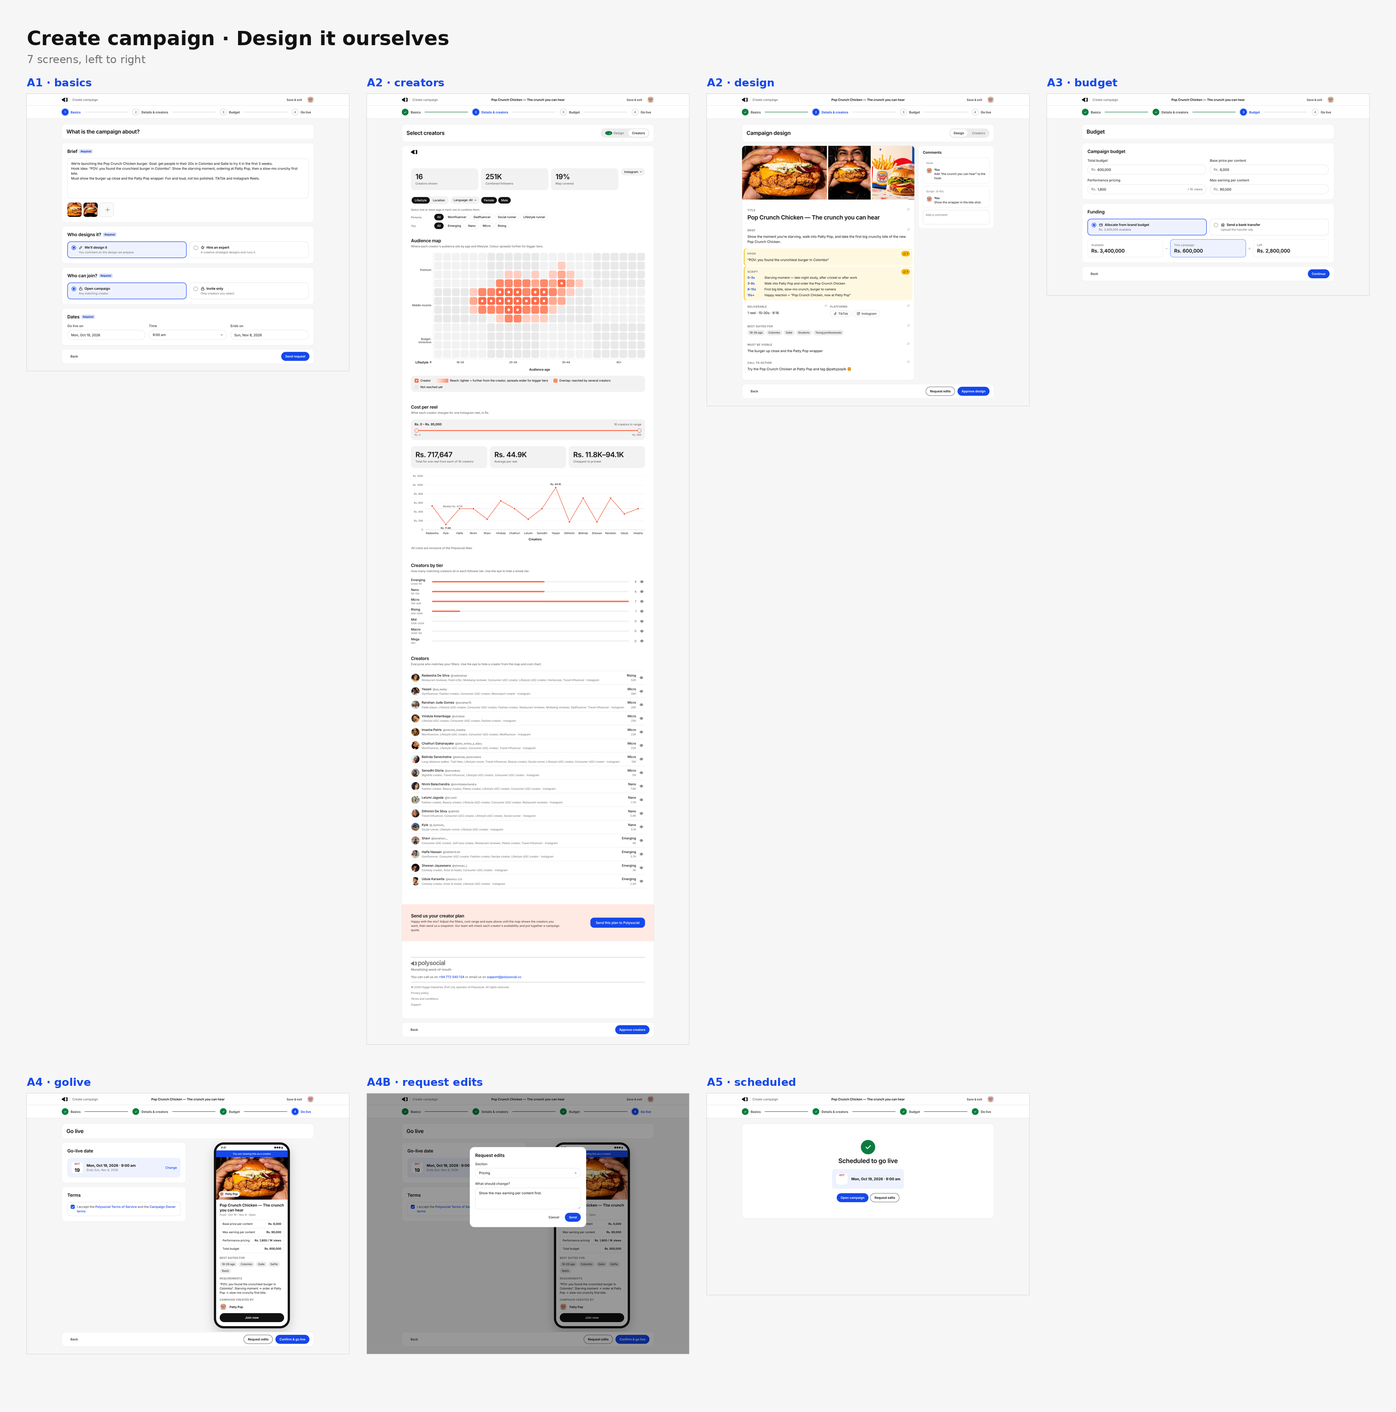
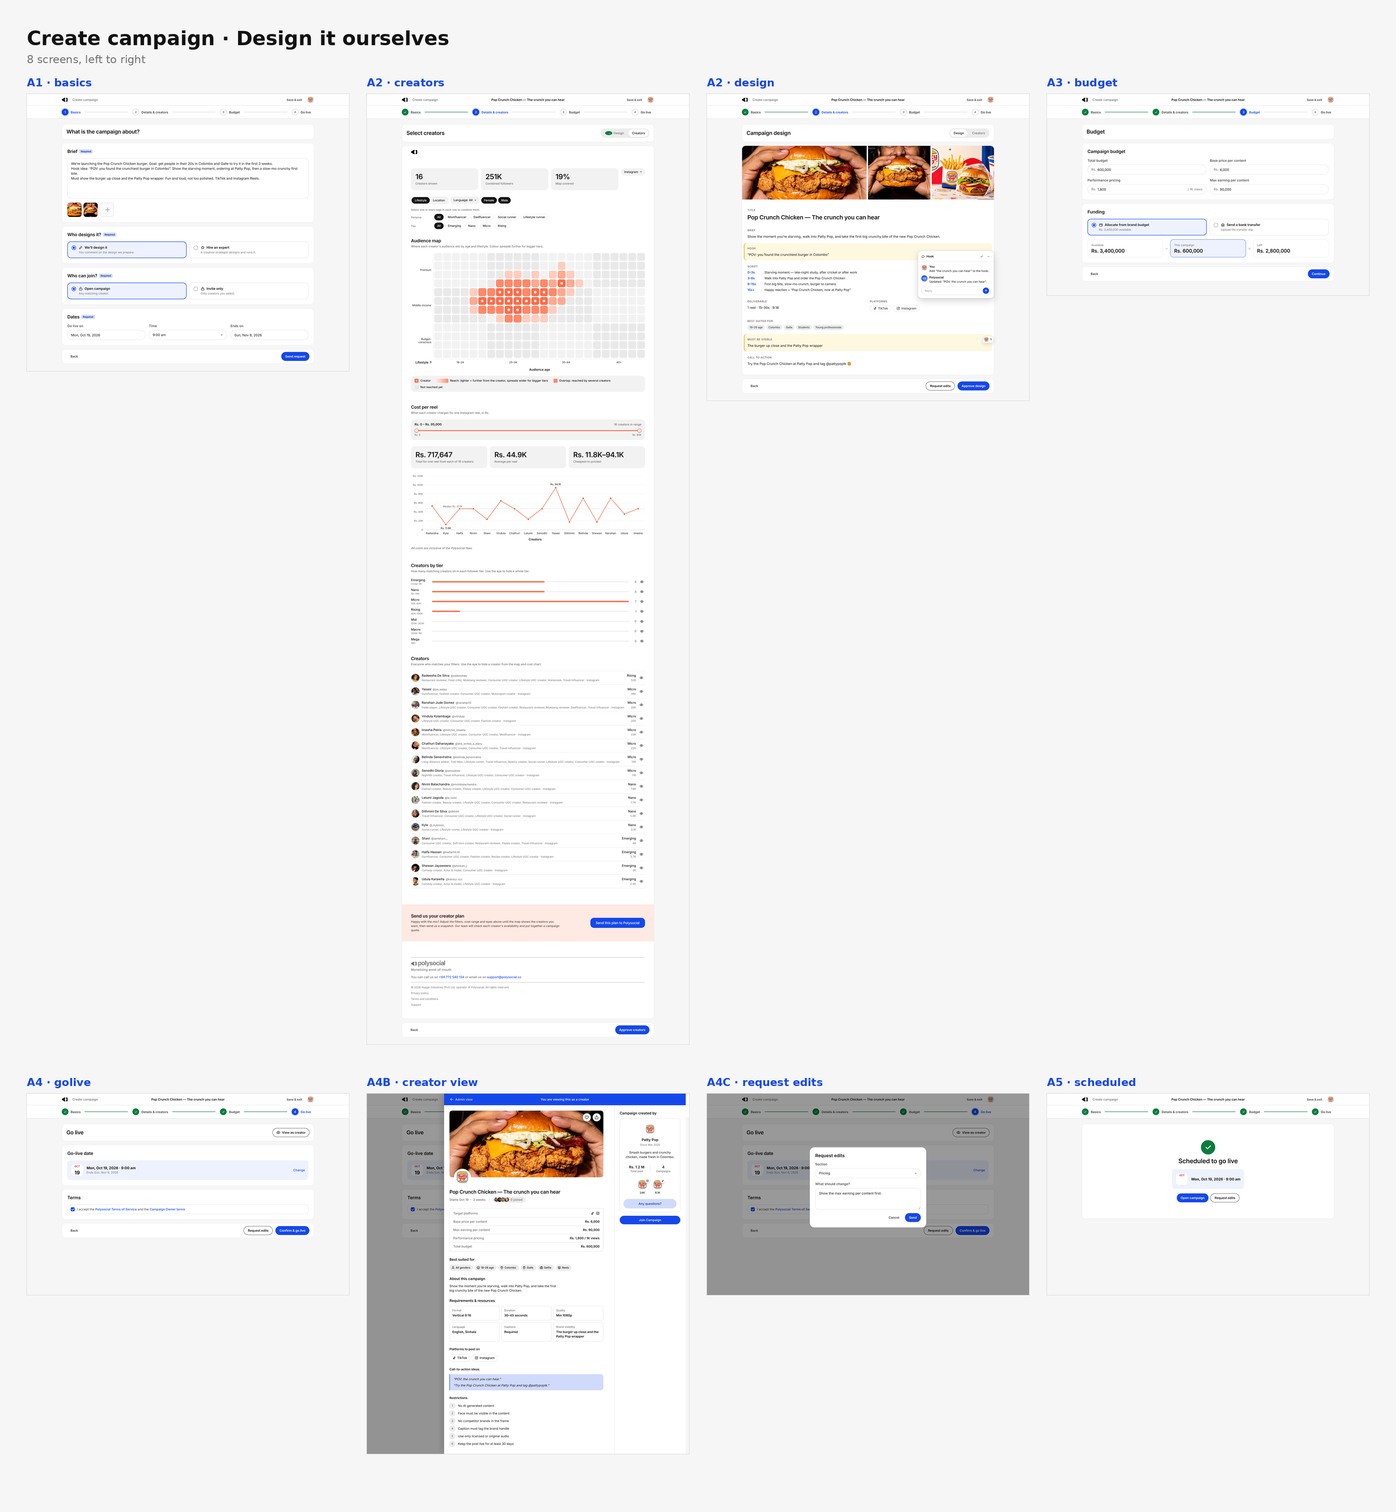
Comment pop-ups in step 2; brand web app creator view in step 4
Step 2: comments open as pop-ups over their section, with resolve and
minimize; minimized ones show as pins. Step 4: replace the phone mock-up
with View as creator, which opens the brand web app's own creator view
drawer filled with the campaign (one screen per type).

Claude-Session: https://claude.ai/code/session_01TWFpSRdd2thovgoyFXphbs

diff --git a/campaign-screens/screens.js b/campaign-screens/screens.js
@@ -124,47 +124,47 @@ SCREENS['c1-basics'] = () => step1('c', {design: 'We’ll design it', access: 'I
 /* ---------- Step 2 · Details: campaign design with comments ---------- */
 const avIni = (t, g) => `<span class="av2" style="background:linear-gradient(135deg,${g})">${t}</span>`;
 const ME = '<img src="img/pattypop.png">', PS = avIni('PS', '#1548eb,#7391f3'), IF = avIni('IF', '#1548eb,#f433ab');
-const sec = (h, body, c) => `<div class="dsec${c ? ' cm' : ''}"><h4>${h}</h4>${body}${c ? `<span class="cbadge">${I.chat}${c}</span>` : `<span class="addc">${I.chat}</span>`}</div>`;
-const thread = (on, msgs) => `<div class="cthread"><div class="on"><b>${on}</b></div>${msgs.map(([av, who, txt]) => `<div class="cmt">${av}<div><b>${who}</b><div>${txt}</div></div></div>`).join('')}</div>`;
+const pop = (key, th) => th.open
+  ? `<div class="cpop"><div class="ph">${I.chat.replace('<svg', '<svg width="15" height="15"')}${key}<span class="ib"><span title="Resolve">✓</span><span title="Minimize">–</span></span></div>
+      <div class="pb">${th.msgs.map(([av, who, txt]) => `<div class="cmt">${av}<div><b>${who}</b><div>${txt}</div></div></div>`).join('')}</div><div class="reply">Reply<b>↑</b></div></div>`
+  : `<span class="cpin">${th.msgs[th.msgs.length - 1][0]}${th.msgs.length}</span>`;
+const sec = (h, body, th) => `<div class="dsec${th ? ' cm' : ''}"><h4>${h}</h4>${body}${th ? pop(h, th) : ''}</div>`;
 const segs = (on, done) => `<div class="seg"><span class="${on === 0 ? 'on' : ''}">${done ? '<span class="dot">✓</span>' : ''}Design</span><span class="${on === 1 ? 'on' : ''}">Creators</span></div>`;
 
 function step2design(k, o) {
-  const t = T[k];
+  const t = T[k], th = o.threads;
   return page(k, 1,
     stephead('Campaign design', segs(0)) +
-    `<div class="cols"><section class="dcard doc"><div class="dcover">${t.cover.map(c => `<div style="background-image:url(img/${c})"></div>`).join('')}</div><div class="dbody">
-      ${sec('Title', `<div class="dtitle">${t.title}</div>`, o.c.title)}
-      ${sec('Brief', `<p>${o.req}</p>`, o.c.req)}
-      ${sec('Hook', `<p>${o.hook}</p>`, o.c.hook)}
-      ${sec('Script', `<div class="beatsv">${o.beats.map(([a, b]) => `<div><em>${a}</em><span>${b}</span></div>`).join('')}</div>`, o.c.script)}
+    `<section class="dcard doc" style="overflow:visible"><div class="dcover" style="border-radius:16px 16px 0 0;overflow:hidden">${t.cover.map(c => `<div style="background-image:url(img/${c})"></div>`).join('')}</div><div class="dbody">
+      ${sec('Title', `<div class="dtitle">${t.title}</div>`, th.Title)}
+      ${sec('Brief', `<p>${o.req}</p>`, th.Brief)}
+      ${sec('Hook', `<p>${o.hook}</p>`, th.Hook)}
+      ${sec('Script', `<div class="beatsv">${o.beats.map(([a, b]) => `<div><em>${a}</em><span>${b}</span></div>`).join('')}</div>`, th.Script)}
       <div class="grid2">${sec('Deliverable', `<p>${o.deliv}</p>`)}${sec('Platforms', `<div class="chips">${o.plats.map(p => `<span class="chip" style="height:30px">${PLAT[p]}${p}</span>`).join('')}</div>`)}</div>
-      ${sec('Best suited for', tagsHTML(o.suited), o.c.suited)}
-      ${sec('Must be visible', `<p>${o.visible}</p>`)}
-      ${sec('Call to action', `<p>${o.cta}</p>`)}
-    </div></section>
-    <div class="stick"><section class="dcard tight"><h3 style="margin-bottom:12px">Comments</h3><div style="display:grid;gap:10px">${o.threads.map(([on, msgs]) => thread(on, msgs)).join('')}
-      <div class="cbox"><textarea placeholder="Add a comment"></textarea></div></div></section>${o.side || ''}</div></div>`,
-    bar([`Request edits`, 'Approve design']));
+      ${sec('Best suited for', tagsHTML(o.suited), th['Best suited for'])}
+      ${sec('Must be visible', `<p>${o.visible}</p>`, th['Must be visible'])}
+      ${sec('Call to action', `<p>${o.cta}</p>`, th['Call to action'])}
+    </div></section>`,
+    bar(['Request edits', 'Approve design']));
 }
 SCREENS['a2-design'] = () => step2design('a', {
   req: 'Show the moment you’re starving, walk into Patty Pop, and take the first big crunchy bite of the new Pop Crunch Chicken.', hook: '“POV: you found the crunchiest burger in Colombo”',
   beats: [['0–3s', 'Starving moment — late-night study, after cricket or after work'], ['3–8s', 'Walk into Patty Pop and order the Pop Crunch Chicken'], ['8–15s', 'First big bite, slow-mo crunch, burger to camera'], ['15s+', 'Happy reaction + “Pop Crunch Chicken, now at Patty Pop”']],
   deliv: '1 reel · 15–30s · 9:16', plats: ['TikTok', 'Instagram'], suited: ['18–28 age', 'Colombo', 'Galle', 'Students', 'Young professionals'],
-  visible: 'The burger up close and the Patty Pop wrapper', cta: 'Try the Pop Crunch Chicken at Patty Pop and tag @pattypoplk 🍔', c: {hook: 1, script: 1},
-  threads: [['Hook', [[ME, 'You', 'Add “the crunch you can hear” to the hook.']]], ['Script · 8–15s', [[ME, 'You', 'Show the wrapper in the bite shot.']]]]});
+  visible: 'The burger up close and the Patty Pop wrapper', cta: 'Try the Pop Crunch Chicken at Patty Pop and tag @pattypoplk 🍔',
+  threads: {Hook: {open: 1, msgs: [[ME, 'You', 'Add “the crunch you can hear” to the hook.'], [PS, 'Polysocial', 'Updated: “POV: the crunch you can hear”.']]}, 'Must be visible': {msgs: [[ME, 'You', 'Show the wrapper in the bite shot.']]}}});
 SCREENS['b2-design'] = () => step2design('b', {
   req: 'Capture the opening of the new Patty Pop in Kandy: the queue, the first bite and the free fries on opening weekend.', hook: '“I drove up to Kandy for one bite…”',
   beats: [['0–3s', 'The drive up to Peradeniya Rd'], ['3–10s', 'The queue and the store front on opening day'], ['10–20s', 'First bite + free fries with code KANDYPOP'], ['20s+', '“Patty Pop, now in Kandy”']],
   deliv: '1 reel · 20–40s · 9:16', plats: ['Instagram', 'TikTok'], suited: ['Families', 'Students', 'Kandy', 'Peradeniya'],
-  visible: 'The store front and the free-fries offer', cta: 'Free fries this weekend at Patty Pop Kandy with code KANDYPOP 🍟', c: {suited: 1},
-  threads: [['Best suited for', [[ME, 'You', 'Please add Katugastota.'], [IF, 'Ishara', 'Adding it.']]]],
-  side: `<section class="dcard tight"><div class="prow">${ini('IF', '#1548eb,#f433ab')}<div><b>Ishara Fernando</b><span>Expert · 12% commission</span></div></div></section>`});
+  visible: 'The store front and the free-fries offer', cta: 'Free fries this weekend at Patty Pop Kandy with code KANDYPOP 🍟',
+  threads: {'Best suited for': {open: 1, msgs: [[ME, 'You', 'Please add Katugastota.'], [IF, 'Ishara', 'Adding it.']]}, Hook: {msgs: [[IF, 'Ishara', 'Open to other hooks too.']]}}});
 SCREENS['c2-design'] = () => step2design('c', {
   req: 'Your family’s Saturday night sorted: open the Family Feast box at home, everyone grabs their favourite, kids react to their meal.', hook: '“Weekend dinner, sorted in one box”',
   beats: [['0–3s', 'The “what’s for dinner?” moment at home'], ['3–10s', 'Open the Family Feast box on the table'], ['10–20s', 'Everyone digs in, kids’ reactions'], ['20s+', 'Rs. 4,990 for the whole family']],
   deliv: '1 Instagram reel · 20–40s · 9:16', plats: ['Instagram'], suited: ['Families', 'Parents 25–44', 'Colombo city'],
-  visible: 'The open Family Feast box and the Rs. 4,990 price', cta: 'Order the Family Feast box on the Patty Pop app and tag @pattypoplk', c: {title: 1},
-  threads: [['Title', [[ME, 'You', 'Mention the price in the title.']]]]});
+  visible: 'The open Family Feast box and the Rs. 4,990 price', cta: 'Order the Family Feast box on the Patty Pop app and tag @pattypoplk',
+  threads: {Title: {open: 1, msgs: [[ME, 'You', 'Mention the price in the title.']]}, 'Call to action': {msgs: [[ME, 'You', 'Add the delivery apps too.']]}}});
 
 /* ---------- Step 2 · Creators: the Polysocial creator map, exactly as deployed ---------- */
 function step2creators(k, btn) {
@@ -198,36 +198,47 @@ SCREENS['c3-budget'] = () => step3('c', {fund: 'transfer',
   budgetBody: `<table class="tb"><tbody>${['ranshan15', 'radeeshaa', 'mitchie_imasha', 'she_writes_a_diary'].map(by).map(c => `<tr><td><div class="prow">${cav(c, 32)}<b style="font-size:14px">${c.name}</b></div></td><td class="r">${rs(c.cost)}</td></tr>`).join('')}</tbody><tfoot><tr><td>Total</td><td class="r">${rs(217647)}</td></tr></tfoot></table>`});
 
 /* ---------- Step 4 · Go live ---------- */
-const CV = {
-  a: {meta: 'Food · Oct 19 – Nov 8 · Open', price: [['Base price per content', 'Rs. 6,000'], ['Max earning per content', 'Rs. 90,000'], ['Performance pricing', 'Rs. 1,800 / 1K views'], ['Total budget', 'Rs. 600,000']], tags: ['18–28 age', 'Colombo', 'Galle', 'Selfie', 'Reels'], req: '“POV: you found the crunchiest burger in Colombo”. Starving moment → order at Patty Pop → slow-mo crunchy first bite.'},
-  b: {meta: 'Food · Nov 20 – Dec 14 · Open', price: [['Base price per content', 'Rs. 9,000'], ['Max earning per content', 'Rs. 120,000'], ['Performance pricing', 'Rs. 1,500 / 1K views'], ['Total budget', 'Rs. 704,000']], tags: ['Families', 'Students', 'Kandy', 'Peradeniya', 'Reels'], req: '“I drove up to Kandy for one bite…”. Queue on opening day, first bite and free fries with code KANDYPOP.'},
-  c: {meta: 'Food · Nov 16 – Dec 6 · Invite only', price: [['Flat fee per content', 'Agreed per creator'], ['Slots', '4'], ['Slots filled', '0'], ['Total budget', 'Rs. 217,647']], tags: ['Families', 'Parents 25–44', 'Colombo city', 'Reels'], req: '“Weekend dinner, sorted in one box”. Open the Family Feast box at home; show the Rs. 4,990 price.'},
+/* The creator view is the brand web app's own "View as creator" drawer (../index.html, viewCampaignDrawer).
+   render.js opens it in the iframe with this campaign's data, in the brand web app's campaign format. */
+const BRAND = {brand: 'Patty Pop', logo: 'ppLogo', abbr: 'PP', cat: 'Food', since: 'Since Mar 2026', brandDesc: 'Smash burgers and crunchy chicken, made fresh in Colombo.',
+  totalPaid: 'Rs. 1.2 M', campaigns: '4', metrics: [['Content approval rate', '95 %'], ['Approval time', '1 d'], ['Responds within', '2 hrs']], handles: [['24K', 'insta'], ['8.1K', 'tiktok']], progress: 0, joined: null, joinedShort: '0'};
+const CVD = {
+  a: {img: 'ppA', title: T.a.title, time: 'Starts Oct 19', right: '3 weeks', platforms: ['tiktok', 'insta'],
+      list: [['Base price per content', 'Rs. 6,000'], ['Max earning per content', 'Rs. 90,000'], ['Performance pricing', 'Rs. 1,800 / 1K views'], ['Total budget', 'Rs. 600,000']],
+      tags: [['All genders', 'people'], ['18-28 age', 'age'], ['Colombo', 'pin'], ['Galle', 'pin'], ['Selfie', 'camera'], ['Reels', 'video']],
+      reqDesc: 'Show the moment you’re starving, walk into Patty Pop, and take the first big crunchy bite of the new Pop Crunch Chicken.', visibility: 'The burger up close and the Patty Pop wrapper',
+      ctas: ['POV: the crunch you can hear.', 'Try the Pop Crunch Chicken at Patty Pop and tag @pattypoplk.']},
+  b: {img: 'ppB', title: T.b.title, time: 'Starts Nov 20', right: 'Store opens Dec 5', platforms: ['insta', 'tiktok'],
+      list: [['Base price per content', 'Rs. 9,000'], ['Max earning per content', 'Rs. 120,000'], ['Performance pricing', 'Rs. 1,500 / 1K views'], ['Total budget', 'Rs. 704,000']],
+      tags: [['Families', 'people'], ['Students', 'people'], ['Kandy', 'pin'], ['Peradeniya', 'pin'], ['Katugastota', 'pin'], ['Reels', 'video']],
+      reqDesc: 'Capture the opening of the new Patty Pop in Kandy: the queue, the first bite and the free fries on opening weekend.', visibility: 'The store front and the free-fries offer',
+      ctas: ['I drove up to Kandy for one bite…', 'Free fries this weekend with code KANDYPOP.']},
+  c: {img: 'ppC', title: T.c.title, time: 'Starts Nov 16', right: '3 weeks', platforms: ['insta'],
+      list: [['Flat fee per content', 'Agreed per creator'], ['Slots', '4'], ['Slots filled', '0'], ['Total budget', 'Rs. 217,647']],
+      tags: [['Families', 'people'], ['25-44 age', 'age'], ['Colombo', 'pin'], ['Reels', 'video']],
+      reqDesc: 'Your family’s Saturday night sorted: open the Family Feast box at home, everyone grabs their favourite, kids react to their meal.', visibility: 'The open Family Feast box and the Rs. 4,990 price',
+      ctas: ['Weekend dinner, sorted in one box.', 'Order the Family Feast box on the Patty Pop app and tag @pattypoplk.']},
 };
-function creatorView(k) {
-  const t = T[k], o = CV[k];
-  return `<div class="phone"><div class="notch"><span>9:41</span><span>●●● ▮</span></div><div class="cvbar">You are viewing this as a creator</div>
-    <div class="cv-hero" style="background-image:url(img/${t.cover[0]})"><span class="bb"><img src="img/pattypop.png">Patty Pop</span></div>
-    <div class="cv"><div><h3>${t.title}</h3><div class="mt">${o.meta}</div></div>
-      <div class="pl">${o.price.map(([a, b]) => `<div><span>${a}</span><b>${b}</b></div>`).join('')}</div>
-      <div><h5>Best suited for</h5>${tagsHTML(o.tags)}</div>
-      <div><h5>Requirements</h5><p>${o.req}</p></div>
-      <div><h5>Campaign created by</h5><div class="prow"><img class="pav" src="img/pattypop.png" style="width:32px;height:32px"><b style="font-size:13px">Patty Pop</b></div></div>
-      <span class="join">Join now</span></div></div>`;
-}
-function step4(k, extraTerm) {
+const CV_ASSETS = {ppLogo: 'campaign-screens/img/pattypop.png', ppA: 'campaign-screens/img/' + T.a.cover[0], ppB: 'campaign-screens/img/' + T.b.cover[0], ppC: 'campaign-screens/img/' + T.c.cover[0]};
+const viewAs = `<span class="viewas">${I.eye}View as creator</span>`;
+
+function step4(k, extraTerm, creatorView) {
   const t = T[k], [mo, d, full] = t.live;
+  if (creatorView) window.CV_INJECT = {id: 'pp_' + k, data: Object.assign({}, BRAND, CVD[k]), assets: CV_ASSETS};
   return page(k, 3,
-    stephead('Go live') +
-    `<div class="cols even"><div class="main">` +
+    stephead('Go live', viewAs) +
     box('Go-live date', `<div class="dateline"><div class="big"><small>${mo}</small><b>${d}</b></div><div class="tx"><b>${full}</b><span>Ends ${t.end}</span></div><span class="link" style="margin-left:auto">Change</span></div>`) +
-    box('Terms', `<div class="terms">${checks([['I accept the <a>Polysocial Terms of Service</a> and the <a>Campaign Owner terms</a>', 1], ...(extraTerm ? [[extraTerm, 1]] : [])])}</div>`) +
-    `</div><div class="stick" style="justify-items:center">${creatorView(k)}</div></div>`,
-    bar(['Request edits', `Confirm &amp; go live`]));
+    box('Terms', `<div class="terms">${checks([['I accept the <a>Polysocial Terms of Service</a> and the <a>Campaign Owner terms</a>', 1], ...(extraTerm ? [[extraTerm, 1]] : [])])}</div>`),
+    bar(['Request edits', `Confirm &amp; go live`])) +
+    (creatorView ? `<iframe class="cvframe" src="../index.html#/active" title="Creator view"></iframe>` : '');
 }
 SCREENS['a4-golive'] = () => step4('a');
+SCREENS['a4b-creator-view'] = () => step4('a', null, true);
 SCREENS['b4-golive'] = () => step4('b', 'I hire Ishara Fernando at 12% (Rs. 96,000)');
+SCREENS['b4b-creator-view'] = () => step4('b', 'I hire Ishara Fernando at 12% (Rs. 96,000)', true);
 SCREENS['c4-golive'] = () => step4('c');
-SCREENS['a4b-request-edits'] = () => SCREENS['a4-golive']() + `<div class="scrim"><div class="modal"><h2>Request edits</h2>
+SCREENS['c4b-creator-view'] = () => step4('c', null, true);
+SCREENS['a4c-request-edits'] = () => SCREENS['a4-golive']() + `<div class="scrim"><div class="modal"><h2>Request edits</h2>
   ${field('Section', sel('Pricing'))}${field('What should change?', area('Show the max earning per content first.', 3))}
   <div class="mrow"><span class="btn btn-ghost">Cancel</span><span class="btn btn-pri">Send</span></div></div></div>`;
 

diff --git a/campaign-screens/create.css b/campaign-screens/create.css
@@ -493,3 +493,22 @@ html:has(body.shot){scrollbar-gutter:auto;}
 .stick .kv{grid-template-columns:auto minmax(0,1fr);}
 .stick .kv dd{text-align:right;}
 .cols > *{min-width:0;}
+
+/* ---------- Step 2: comment pop-ups over the design (open, or minimized to a pin) ---------- */
+.doc .dbody{position:relative;}
+.dsec{overflow:visible;}
+.cpop{position:absolute;z-index:5;right:-8px;top:34px;width:340px;background:#fff;border:1px solid var(--grey-200);border-radius:16px;box-shadow:0 12px 32px rgba(0,0,0,.16),0 2px 6px rgba(0,0,0,.06);display:grid;}
+.cpop .ph{display:flex;align-items:center;gap:8px;padding:10px 10px 10px 14px;border-bottom:1px solid var(--line);font-size:13px;font-weight:600;}
+.cpop .ph .ib{margin-left:auto;display:flex;gap:2px;}
+.cpop .ph .ib span{width:28px;height:28px;border-radius:8px;display:grid;place-items:center;color:var(--grey-600);font-size:16px;line-height:1;}
+.cpop .ph .ib span:hover{background:#f0f0f0;}
+.cpop .pb{padding:12px 14px;display:grid;gap:10px;}
+.cpop .reply{margin:0 14px 14px;height:38px;border:1px solid var(--grey-200);border-radius:100px;display:flex;align-items:center;justify-content:space-between;padding:0 6px 0 14px;font-size:13px;color:var(--grey-500);}
+.cpop .reply b{width:28px;height:28px;border-radius:50%;background:var(--blue-500);color:#fff;display:grid;place-items:center;font-size:14px;}
+.cpin{position:absolute;z-index:5;right:-8px;top:8px;display:inline-flex;align-items:center;gap:6px;padding:3px 10px 3px 3px;border-radius:100px 100px 100px 4px;background:#fff;border:1px solid var(--grey-200);box-shadow:0 6px 16px rgba(0,0,0,.12);font-size:12px;font-weight:600;}
+.cpin img,.cpin .av2{width:24px;height:24px;border-radius:50%;}
+.cpin .av2{display:grid;place-items:center;color:#fff;font-size:10px;}
+.dsec.cm{background:#fff8e1;box-shadow:inset 3px 0 0 #f2b705;}
+.viewas{display:inline-flex;align-items:center;gap:8px;height:40px;padding:0 16px;border-radius:100px;border:1px solid var(--grey-800);background:#fff;font-size:14px;font-weight:600;}
+.viewas svg{width:18px;height:18px;}
+.cvframe{position:absolute;inset:0;width:100%;height:100%;border:0;background:transparent;z-index:60;}

diff --git a/campaign-screens/render.js b/campaign-screens/render.js
@@ -31,8 +31,22 @@ const server = http.createServer((req, res) => {
     await p.goto(`file://${dir}/screens.html?s=${id}&map=${encodeURIComponent(MAP)}&mapH=${mapH}`, { waitUntil: 'networkidle' });
     await p.evaluate(() => document.fonts.ready);
     await p.addStyleTag({ content: '*{animation:none !important}' });
+    // Creator view: open the brand web app's own "View as creator" drawer, with this campaign's data
+    const inject = await p.evaluate(() => window.CV_INJECT || null);
+    if (inject) {
+      const f = p.frames().find(fr => fr.url().includes('/brand-web-app/index.html'));
+      await f.waitForFunction(() => typeof openCampaignDrawer === 'function');
+      await f.evaluate(({ id, data, assets }) => {
+        Object.assign(A, assets); C[id] = data;
+        const st = document.createElement('style');
+        st.textContent = 'html,body{background:transparent !important} body>*:not(#cdrawer){visibility:hidden !important} #cdrawer *{transition:none !important}';
+        document.head.appendChild(st);
+        openCampaignDrawer(id);
+      }, inject);
+    }
     // The map reveals its sections as they scroll into view, so show the whole page at once
-    const h = await p.evaluate(() => document.documentElement.scrollHeight);
+    let h = await p.evaluate(() => document.documentElement.scrollHeight);
+    if (inject) h = Math.max(h, 52 + await p.frames().find(fr => fr.url().includes('/brand-web-app/index.html')).evaluate(() => document.getElementById('cd-body').scrollHeight));
     await p.setViewportSize({ width: 1440, height: h });
     await p.waitForTimeout(id.includes('creators') ? 1500 : 150);
     await p.screenshot({ path: path.join(out, id + '.png'), fullPage: true });

diff --git a/campaign-screens/README.md b/campaign-screens/README.md
@@ -6,10 +6,12 @@ feature. Patty Pop is the brand; the three campaigns follow the three chats in `
 ## The 4 steps (the same for every campaign)
 
 1. **Basics** — brief (with attachments), who designs it, who can join, dates. The title is written from the brief.
-2. **Details & creators** — *Design*: the campaign design, with comments to request edits. *Creators*: the Polysocial
+2. **Details & creators** — *Design*: the campaign design; comments open as pop-ups over the section they belong to and
+   can be minimized to a pin. *Creators*: the Polysocial
    creator map, embedded exactly as deployed (Polysocial-mobile `site/creator-map/celeste`, unchanged).
 3. **Budget** — allocate from the brand budget, or send a bank transfer.
-4. **Go live** — go-live date, terms, the creator view; request edits or confirm.
+4. **Go live** — go-live date, terms; request edits or confirm. *View as creator* opens the brand web app's own creator
+   view drawer (`viewCampaignDrawer` in `../index.html`), filled with the campaign (`png/*4b-creator-view.png`).
 
 ## The three campaign types
 
@@ -24,7 +26,8 @@ feature. Patty Pop is the brand; the three campaigns follow the three chats in `
 ## Updating the images
 
 The screens are drawn by `screens.js` (styles in `create.css`) and opened with `screens.html?s=<id>`. `render.js` serves
-Polysocial-mobile's `site/` on localhost:8765 so step 2 can embed the creator map (default path: `../../Polysocial-mobile`).
+Polysocial-mobile's `site/` on localhost:8765 so step 2 can embed the creator map (default path: `../../Polysocial-mobile`),
+and for the creator view it loads `../index.html`, adds the campaign to its data and opens its drawer.
 
 ```sh
 node campaign-screens/render.js [path-to-Polysocial-mobile]   # png/<id>.png at 1440px wide, 2x
